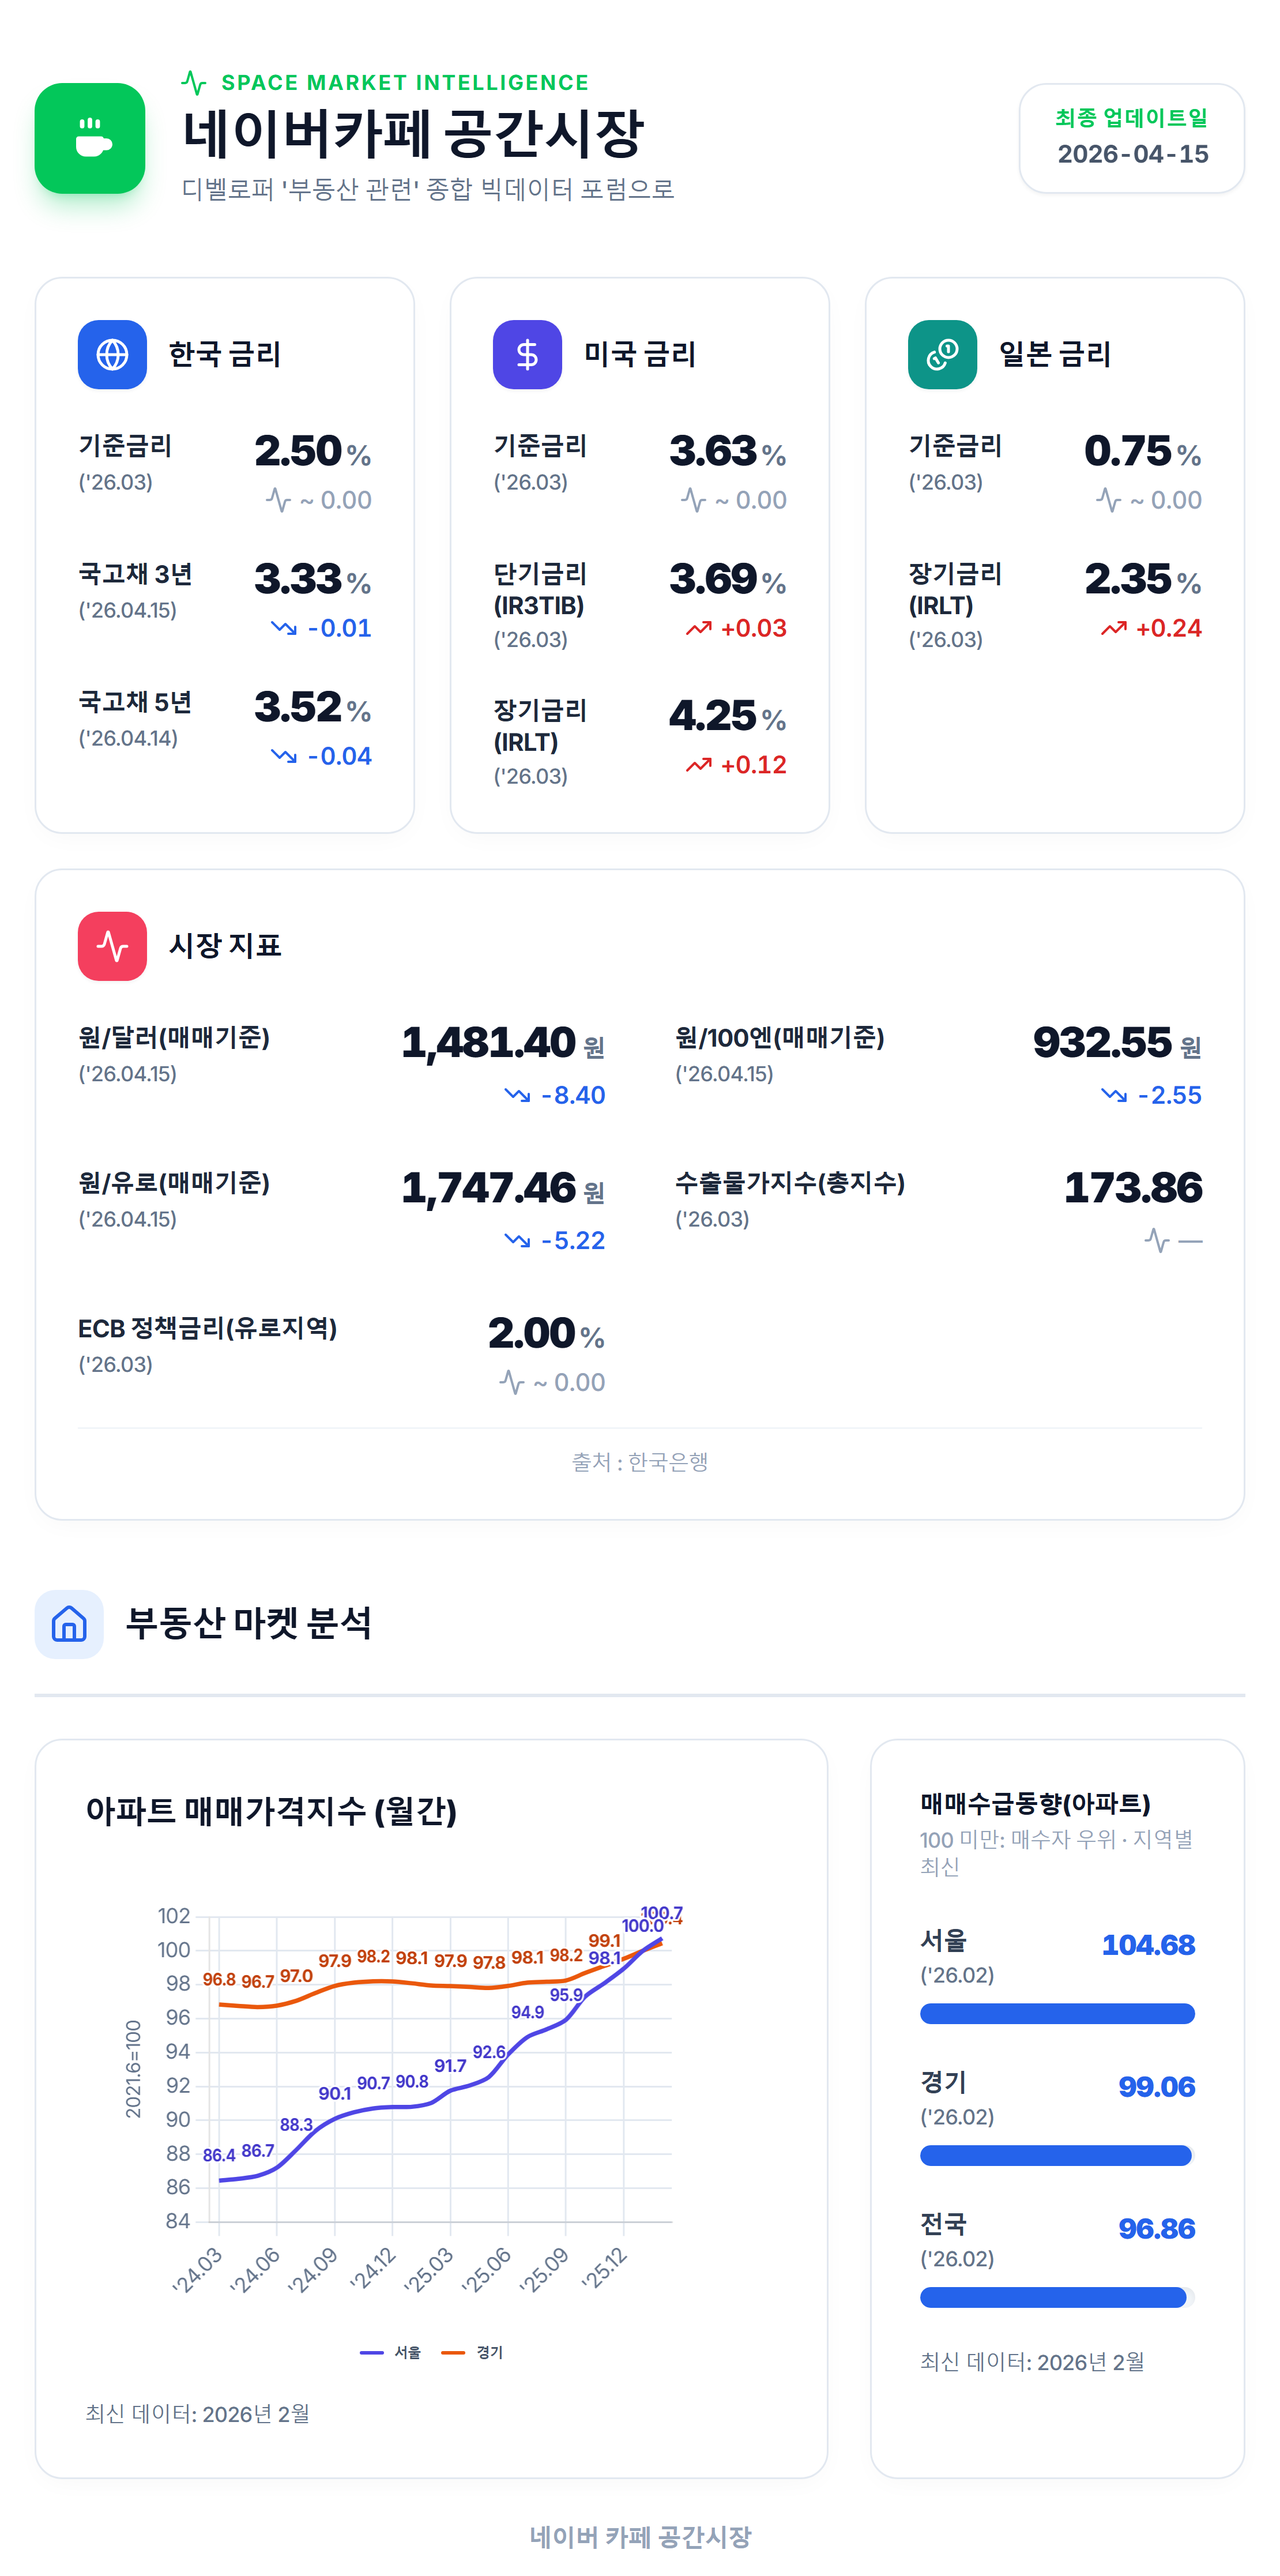
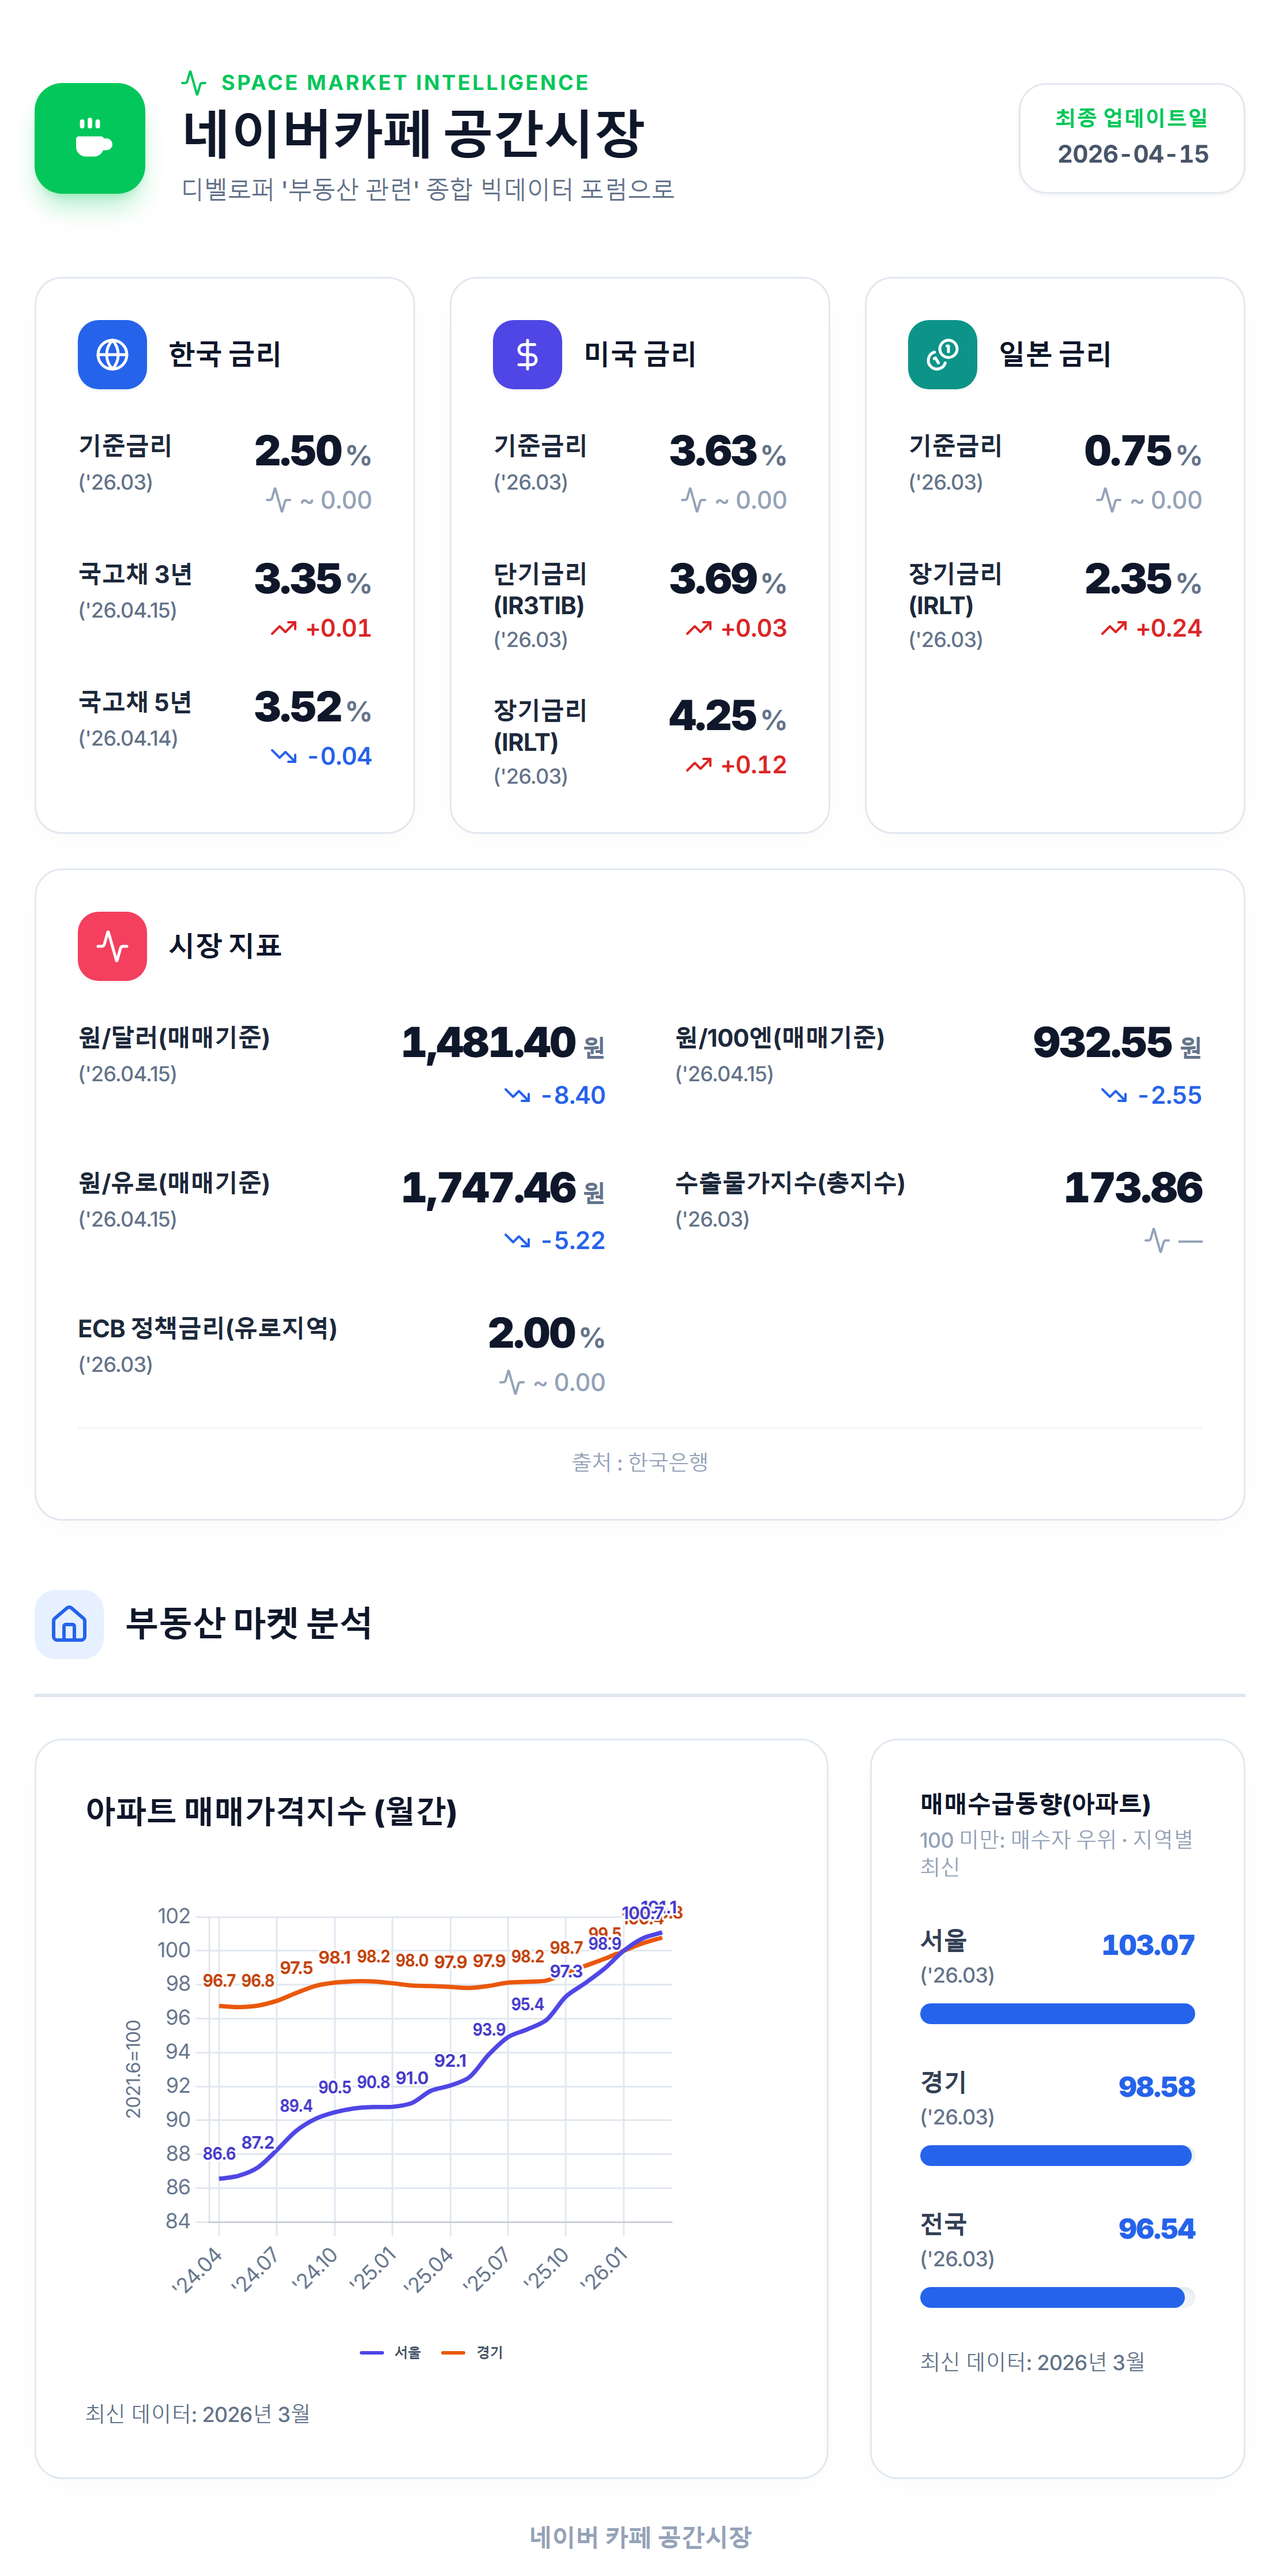
chore: ticker update

diff --git a/cafe-door.html b/cafe-door.html
@@ -3,7 +3,7 @@
 <tbody>
 <tr>
 <td align="center" style="padding:0;line-height:0;">
-<a href="https://cafe.naver.com/speedgoodroom" target="_blank" rel="noopener noreferrer" style="display:block;border:0;text-decoration:none"><img src="https://cdn.jsdelivr.net/gh/kjhwang725-maker/cafe@9b08227bdad80e02c2a34a4f3f850e8fc696edef/docs/ticker.png" width="740" style="width:740px;max-width:100%;height:auto;display:block;margin:0;padding:0;border:0" alt="" loading="eager" decoding="async"></a>
+<a href="https://cafe.naver.com/speedgoodroom" target="_blank" rel="noopener noreferrer" style="display:block;border:0;text-decoration:none"><img src="https://cdn.jsdelivr.net/gh/kjhwang725-maker/cafe@main/docs/ticker.png?v=1_20260415_153336" width="740" style="width:740px;max-width:100%;height:auto;display:block;margin:0;padding:0;border:0" alt="" loading="eager" decoding="async"></a>
 </td>
 </tr>
 </tbody>
